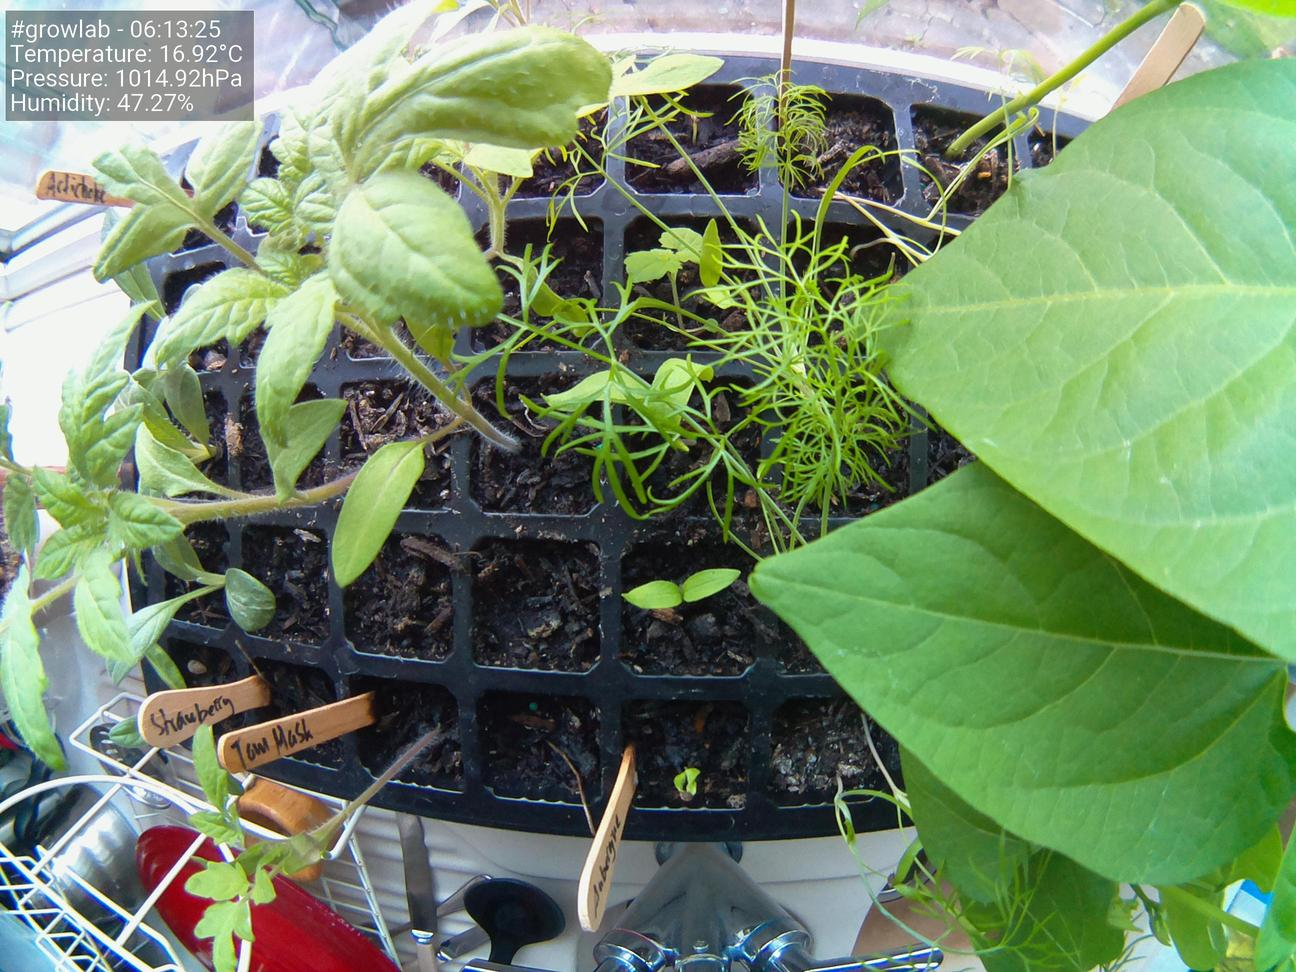
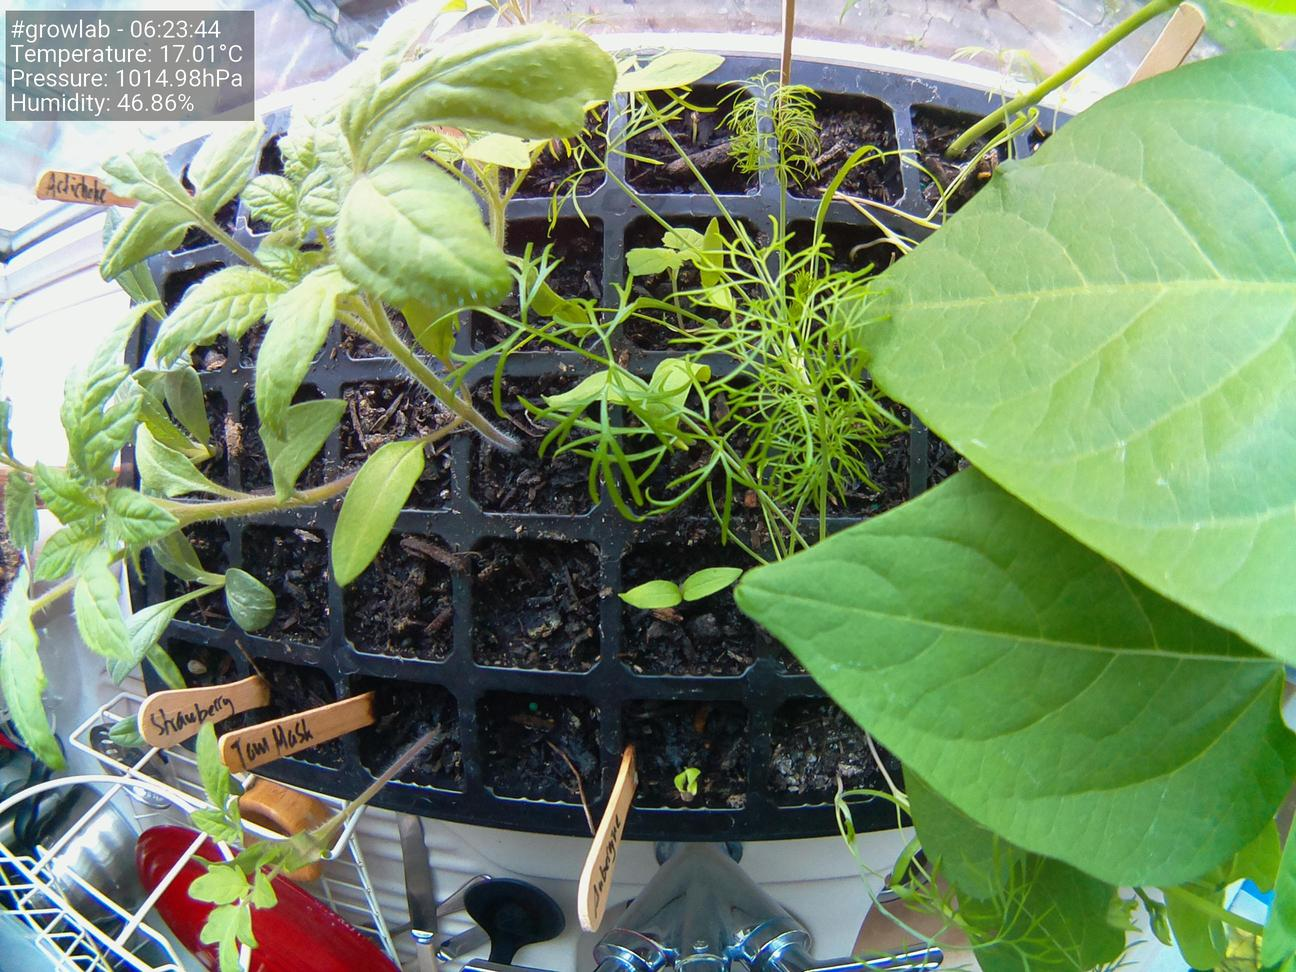
Update images at Fri 30 Apr 06:23:56 BST 2021

diff --git a/docs/index.html b/docs/index.html
@@ -38,19 +38,19 @@
                     <tbody>
                         <tr>
                             <td>Time</td>
-                            <td>06:13:25</td>
+                            <td>06:23:44</td>
                         </tr>
                         <tr>
                             <td>Temperature</td>
-                            <td>16.92°C</td>
+                            <td>17.01°C</td>
                         </tr>
                         <tr>
                             <td>Humidity</td>
-                            <td>47.27%</td>
+                            <td>46.86%</td>
                         </tr>
                         <tr>
                             <td>Pressure</td>
-                            <td>1014.92hPa</td>
+                            <td>1014.98hPa</td>
                         </tr>
                     </tbody>
                 </table>
@@ -58,7 +58,7 @@
 
                 <h5>Latest image</h5>
 		<div style="width: 85%;">
-	                <img class="figure-img img-fluid rounded" src="./preview.jpg?uid=1619759616.3154025">
+	                <img class="figure-img img-fluid rounded" src="./preview.jpg?uid=1619760235.8382478">
 		</div>
             </div>
         </div>
